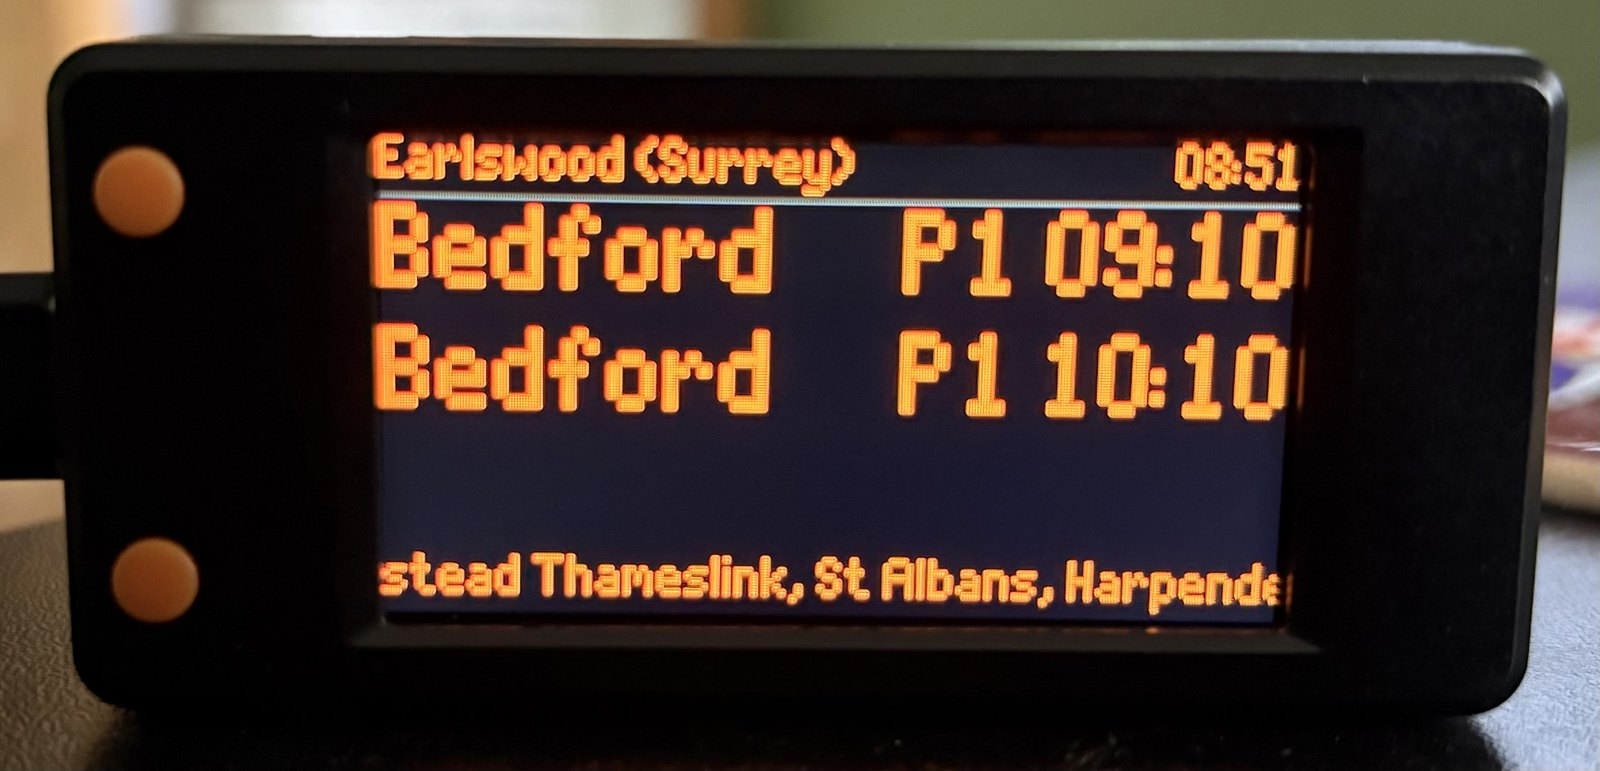
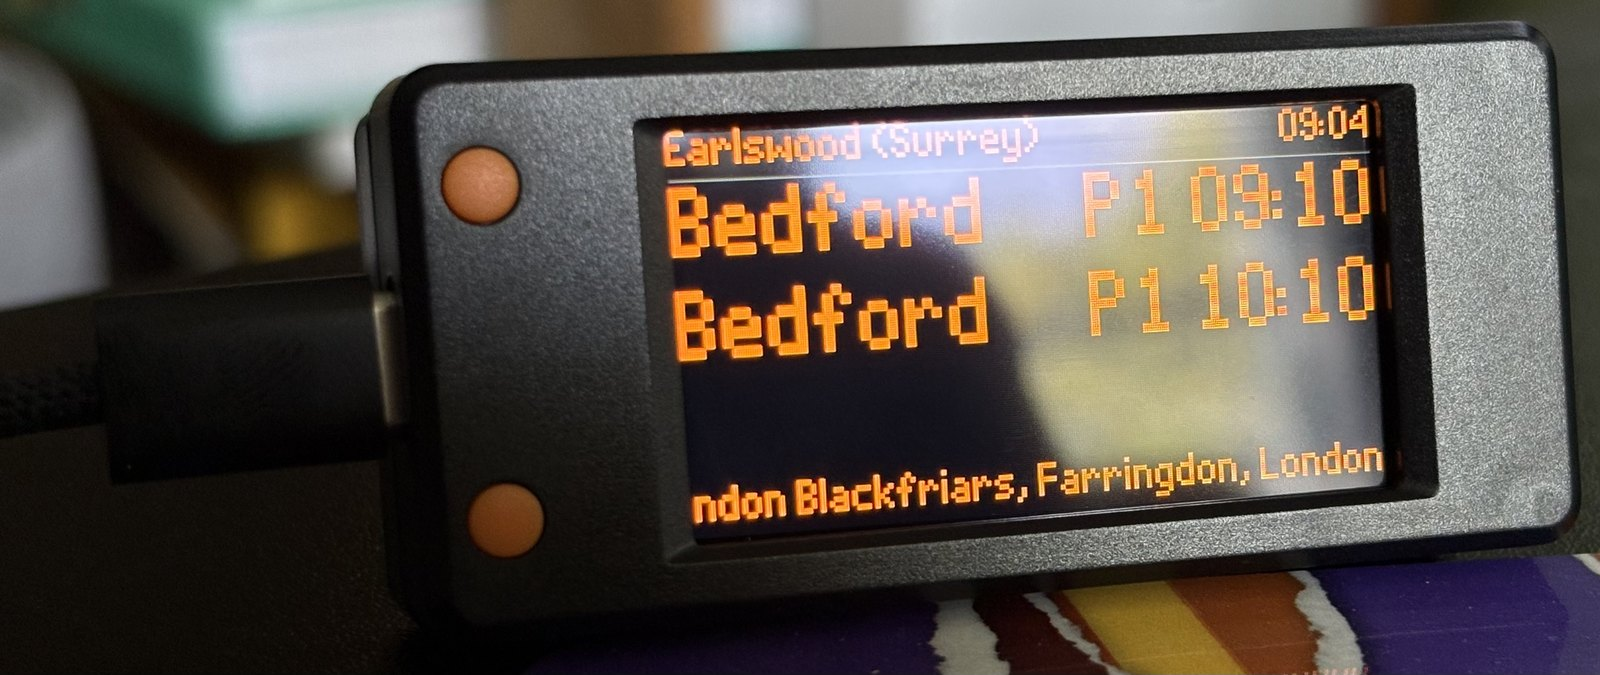
README: replace LV02 gallery photo with a better angle
Swap railinfoclients/LV02.jpeg for a clearer landscape shot (Earlswood board,
clock 09:04, calling-at London Blackfriars/Farringdon) and update the alt text
to match. Resized to 1600px and EXIF-stripped (removed GPS) as before.

diff --git a/README.md b/README.md
@@ -23,7 +23,7 @@ Luckyminer LV02) — the last four fed by a small JSON server.
 </p>
 <p align="center">
   <img src="railinfoclients/LV02.jpeg" width="98%"
-       alt="Luckyminer LV02 - a LilyGo T-Display-S3 clone - in landscape showing the Earlswood (Surrey) board: two Bedford departures at P1 09:10 and 10:10, an 08:51 clock, and a scrolling calling-at line">
+       alt="Luckyminer LV02 - a LilyGo T-Display-S3 clone - in landscape showing the Earlswood (Surrey) board: two Bedford departures at P1 09:10 and 10:10, a 09:04 clock, and a scrolling calling-at line (London Blackfriars, Farringdon, London...)">
 </p>
 
 *The five clients live: the [Divoom Pixoo 64](#phase-2--pixoo-64-display-done) (top left), the
